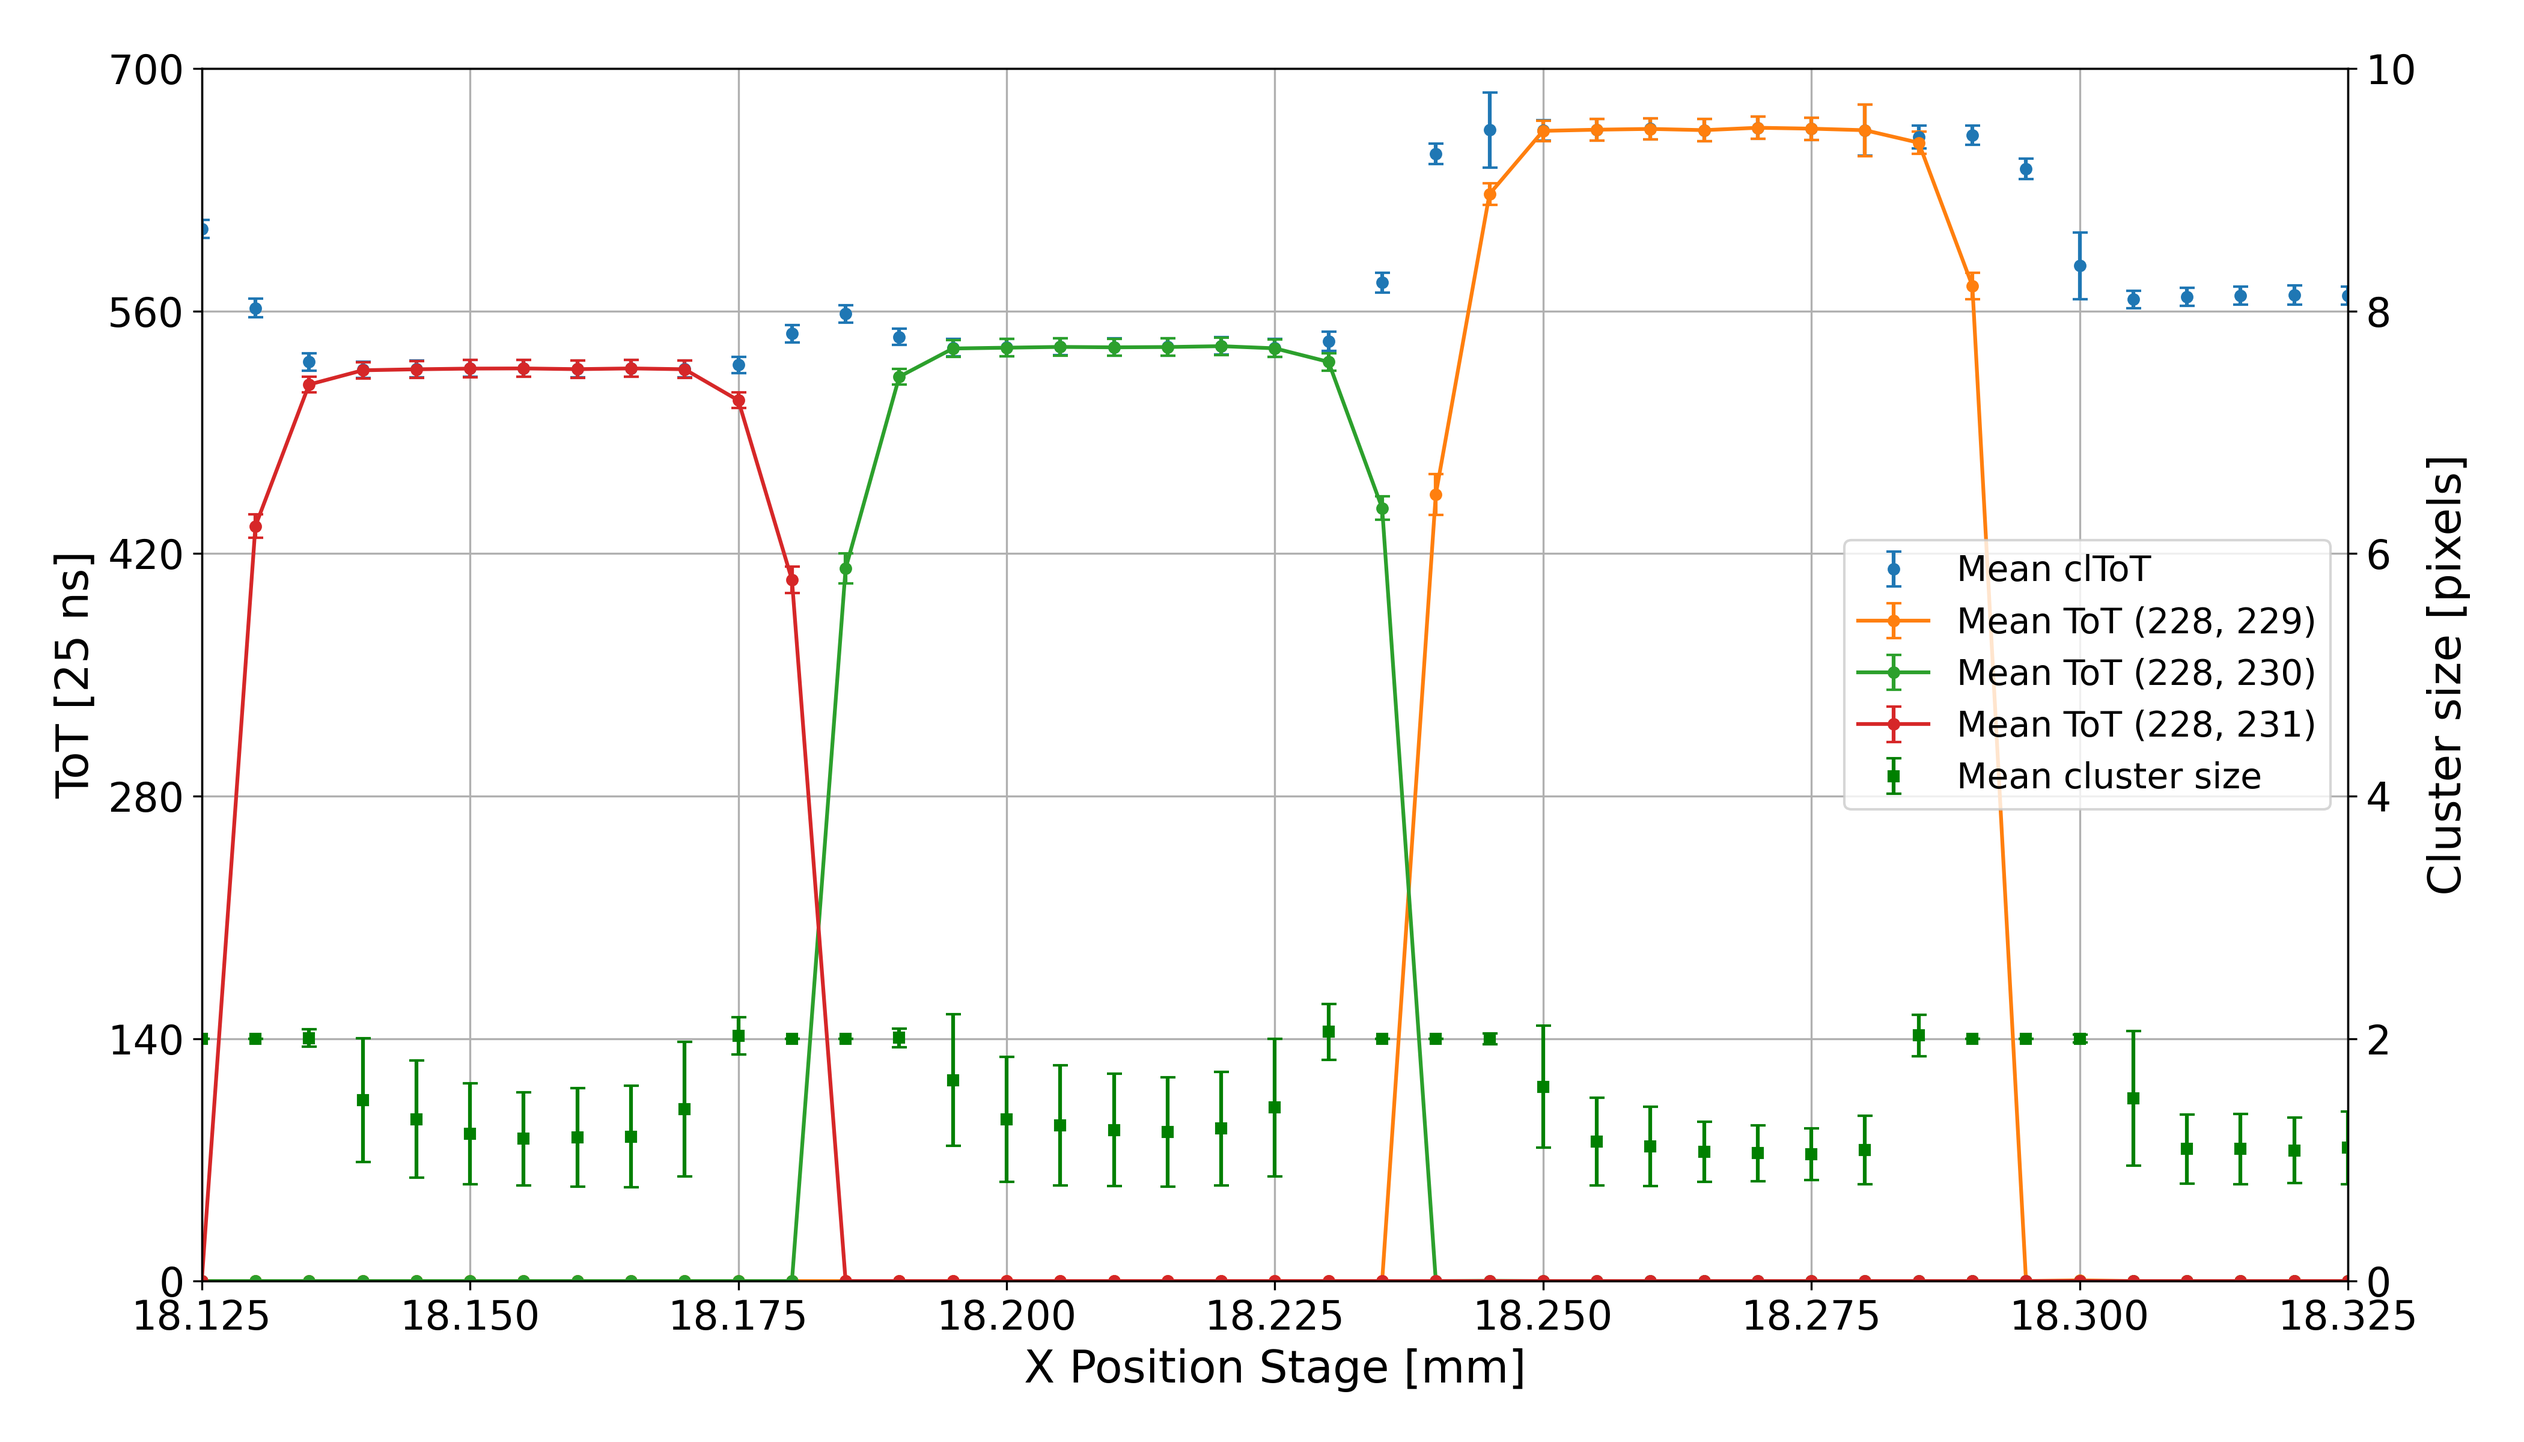
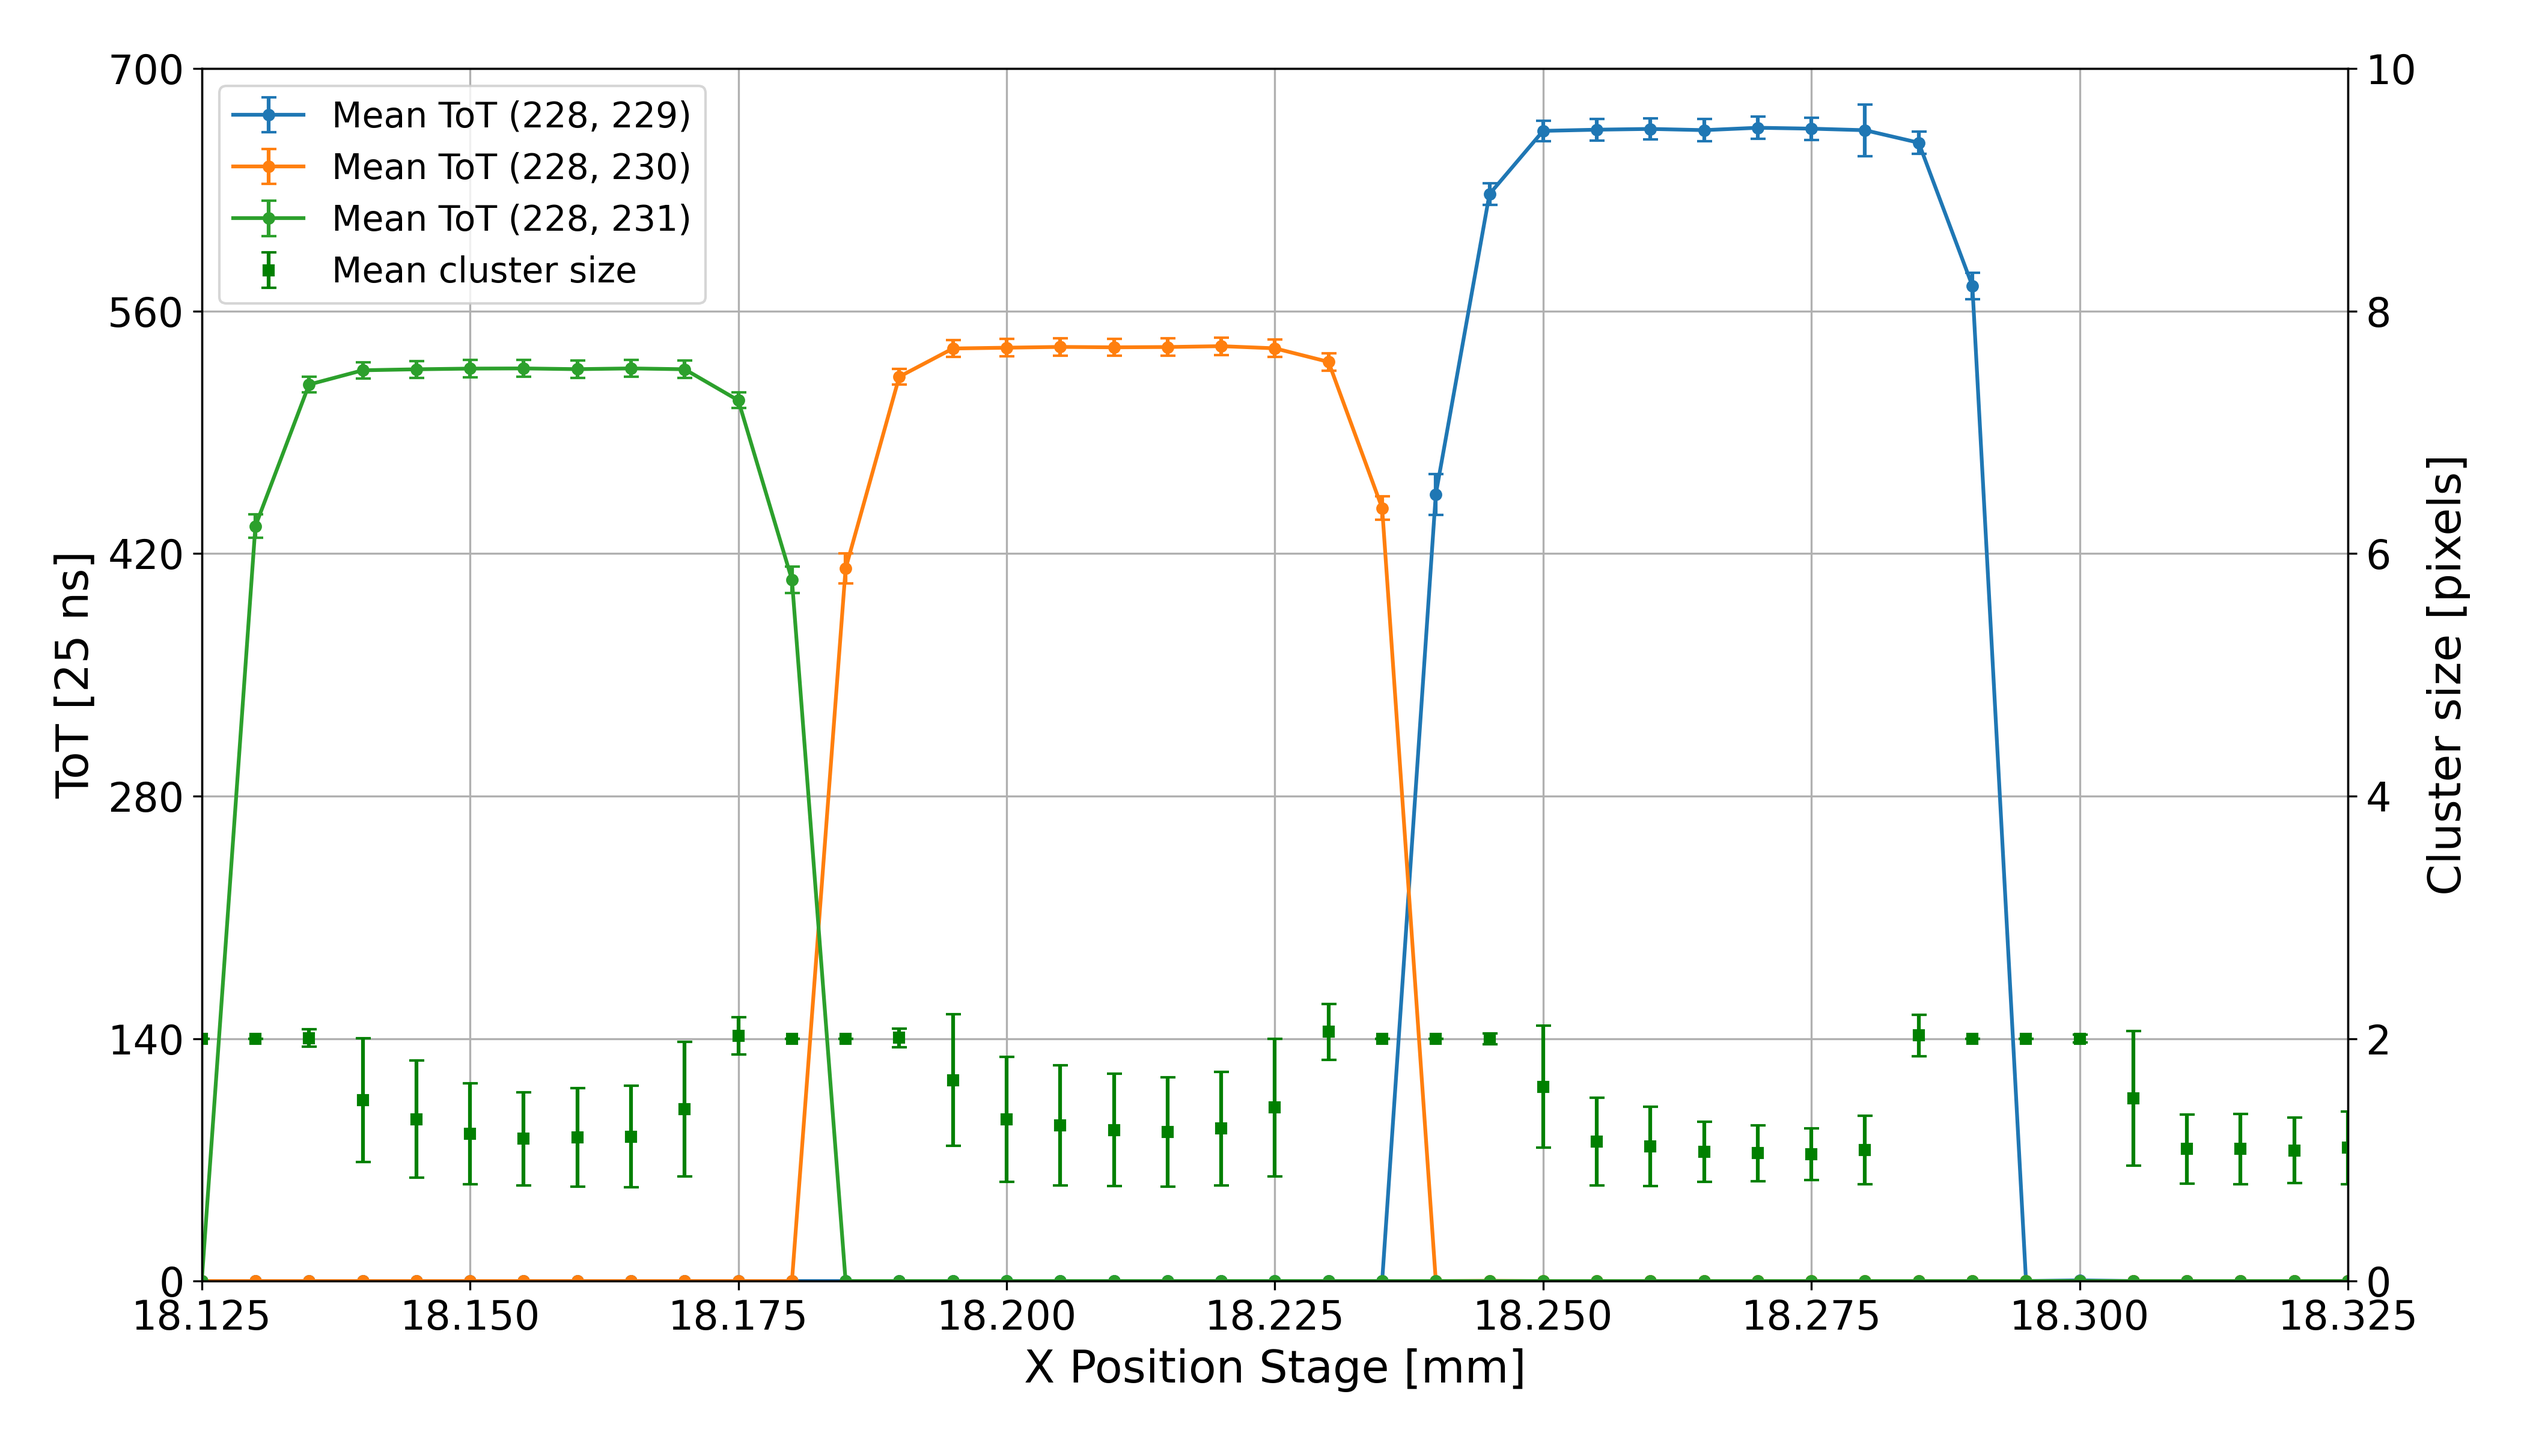
Update ScanPlotter direction and clean up commented code for clarity

diff --git a/timepix4/focus/plotter.py b/timepix4/focus/plotter.py
@@ -32,17 +32,17 @@ class ScanPlotter:
         ax2 = ax.twinx()
 
         # Plot Cluster ToT
-        ax.errorbar(
-            self.df["Position"],
-            self.df["mean_cltot"],
-            yerr=self.df["std_cltot"],
-            marker="o",
-            # linestyle="-",
-            linestyle="None",
-            capsize=3,
-            label="Mean clToT",
-            markersize=4,
-        )
+        # ax.errorbar(
+        #     self.df["Position"],
+        #     self.df["mean_cltot"],
+        #     yerr=self.df["std_cltot"],
+        #     marker="o",
+        #     # linestyle="-",
+        #     linestyle="None",
+        #     capsize=3,
+        #     label="Mean clToT",
+        #     markersize=4,
+        # )
 
         # Plot Cluster Size
         ax2.errorbar(
@@ -57,18 +57,18 @@ class ScanPlotter:
             markersize=4,
         )
 
-        # Plot ToT
-        ax.errorbar(
-            self.df["Position"],
-            self.df["mean_tot"],
-            yerr=self.df["std_tot"],
-            marker="o",
-            # linestyle="None",
-            linestyle="-",
-            capsize=3,
-            label=f"Mean ToT ({self.COL}, {self.ROW})",
-            markersize=4,
-        )
+        # # Plot ToT
+        # ax.errorbar(
+        #     self.df["Position"],
+        #     self.df["mean_tot"],
+        #     yerr=self.df["std_tot"],
+        #     marker="o",
+        #     # linestyle="None",
+        #     linestyle="-",
+        #     capsize=3,
+        #     label=f"Mean ToT ({self.COL}, {self.ROW})",
+        #     markersize=4,
+        # )
 
         if self.direction != "z":
             if self.direction == "x":
@@ -140,7 +140,9 @@ class ScanPlotter:
         ax.set_xlabel(f"{self.direction.capitalize()} Position Stage [mm]")
         ax.set_ylabel("ToT [25 ns]")
         ax2.set_ylabel("Cluster size [pixels]")
-        plt.xlim(38.5, 41)
+        # plt.xlim(38.5, 41)
+        # plt.xlim(18.125, 18.325)
+        plt.xlim(42.275, 42.50)
         # ax.set_title(
         #     f"{self.direction.capitalize()} Scan ToT: Pixel ({self.COL}, {self.ROW})"
         # )

diff --git a/timepix4/threshold/enc.py b/timepix4/threshold/enc.py
@@ -1,0 +1,63 @@
+import pandas as pd
+import numpy as np
+import ast
+import matplotlib.pyplot as plt
+from scipy.optimize import curve_fit
+from scipy.special import erf, erfc
+
+
+def LoadCSV(filepath):
+    df = pd.read_csv(filepath, converters={"pixel": parse_tuple})
+    df_filtered = df[df["pixel"].apply(lambda t: all(x % 10 == 0 for x in t))]
+    return df_filtered
+
+
+def parse_tuple(s):
+    tup = ast.literal_eval(s)
+    return tuple(int(x) for x in tup)
+
+
+def error_func(x, mu, sigma):
+    return 500 * (erf((mu - x) / (np.sqrt(2) * sigma))) + 500
+
+
+def error_func_no_C(x, A, mu, sigma, y0):
+    return y0 + 0.5 * A * erfc((x - mu) / (sigma * np.sqrt(2)))
+
+
+def PlotENC(filepath: str) -> None:
+    df = LoadCSV(filepath)
+    threshold_columns = [col for col in df.columns if col.startswith("threshold")]
+    threshold_vals = [int(c.split()[1]) for c in threshold_columns]
+    sigma_list = []
+
+    for index, row in df.iterrows():
+        ydata = row[threshold_columns].values.astype(float)
+        xdata = threshold_vals
+        try:
+            popt, _ = curve_fit(
+                error_func_no_C,
+                xdata,
+                ydata,
+                p0=[1000, 4600, 75, 1000],
+                maxfev=20000,
+            )
+            sigma = popt[2]
+            sigma_list.append(sigma)
+        except (RuntimeError, ValueError):
+            pass
+
+    plt.figure(figsize=(14, 8))
+    plt.hist(
+        sigma_list,
+        color="blue",
+        bins=30,
+        alpha=0.7,
+    )
+    plt.xlim(0, 150)
+    plt.ylim(0, 800)
+    plt.xlabel("Sigma")
+    plt.ylabel("Frequency")
+    plt.tight_layout()
+    plt.savefig("Sigma_Distribution_Grid.png", dpi=600)
+    plt.show()

diff --git a/timepix4/non_functions/1ThresholdAnalysis.py b/timepix4/non_functions/1ThresholdAnalysis.py
@@ -580,13 +580,13 @@ def MultipleErrorFit(filepaths: list[str]) -> None:
 
 if __name__ == "__main__":
     # N116 = "Data/Threshold Test Data/N116/FinalHits.csv"
-    N112 = "Data/Threshold Test Data/N112/FinalHits.csv"
-    N10 = "Data/Threshold Test Data/N10/FinalHits.csv"
-    N113 = "Data/Threshold Test Data/N113/FinalHits.csv"
+    # N112 = "Data/Threshold Test Data/N112/FinalHits.csv"
+    # N10 = "Data/Threshold Test Data/N10/FinalHits.csv"
+    # N113 = "Data/Threshold Test Data/N113/FinalHits.csv"
     N116 = "Data/Threshold Test Data/N116_2/FinalHits.csv"
     # filepaths = [N10, N112, N113, N116]
     # filepaths = [N116]
-    filepaths = [N10, N116]
+    filepaths = [N116]
 
     # PlotAveragePixels(filepaths)
     # PlotSectorAverages(filepaths)

diff --git a/Focus.py b/Focus.py
@@ -4,7 +4,7 @@ from timepix4.focus import FocusProcessor, ScanPlotter, HitmapVisualizer
 def main():
     # focus = FocusProcessor(AttenuationVoltage=3.5, direction="y")
     # focus.ProcessAll()
-    plotter = ScanPlotter(direction="z", AttenuationVoltage=3.5, ROW=230, COL=228)
+    plotter = ScanPlotter(direction="y", AttenuationVoltage=3.5, ROW=230, COL=228)
     plotter.Plot_ToT()
     # plotter.Plot_Charge()
     # visualizer = HitmapVisualizer(

diff --git a/Threshold.py b/Threshold.py
@@ -1,0 +1,7 @@
+from timepix4.threshold import *
+
+def main():
+    PlotENC("Data/Threshold Test Data/N116/FinalHits.csv")
+
+if __name__ == "__main__":
+    main()

diff --git a/timepix4/threshold/__init__.py b/timepix4/threshold/__init__.py
@@ -1,0 +1,1 @@
+from .enc import *
